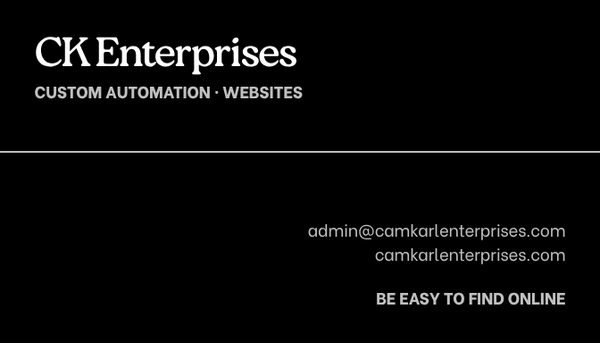
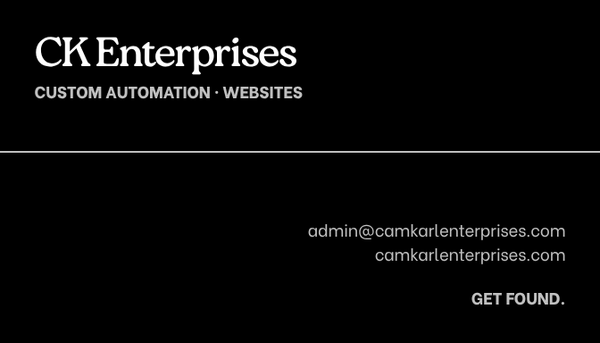
Brand: card page, front and back

Changed region(s): [[0.63, 0.8455, 0.96, 0.9038]]

diff --git a/brand/card.html b/brand/card.html
@@ -1,0 +1,5 @@
+<!doctype html><html lang="en"><head><meta charset="utf-8"><meta name="viewport" content="width=device-width,initial-scale=1"><meta name="robots" content="noindex">
+<title>CKE business card</title>
+<style>body{margin:0;background:#1a1a1f;color:#f1ede6;font:16px/1.5 system-ui,sans-serif;padding:24px max(16px,env(safe-area-inset-left,0px))}
+main{max-width:700px;margin:0 auto;display:grid;gap:14px}h1{margin:0;font-size:22px}h2{margin:10px 0 0;font-size:16px;color:#9a958c;font-weight:600}img{width:100%;height:auto;border-radius:10px;box-shadow:0 8px 30px rgba(0,0,0,.6)}</style></head>
+<body><main><h1>Business card</h1><h2>FRONT</h2><img src="card-front-preview.png?v=2" alt="Card front"><h2>BACK</h2><img src="card-back-preview.png?v=3" alt="Card back"></main></body></html>
